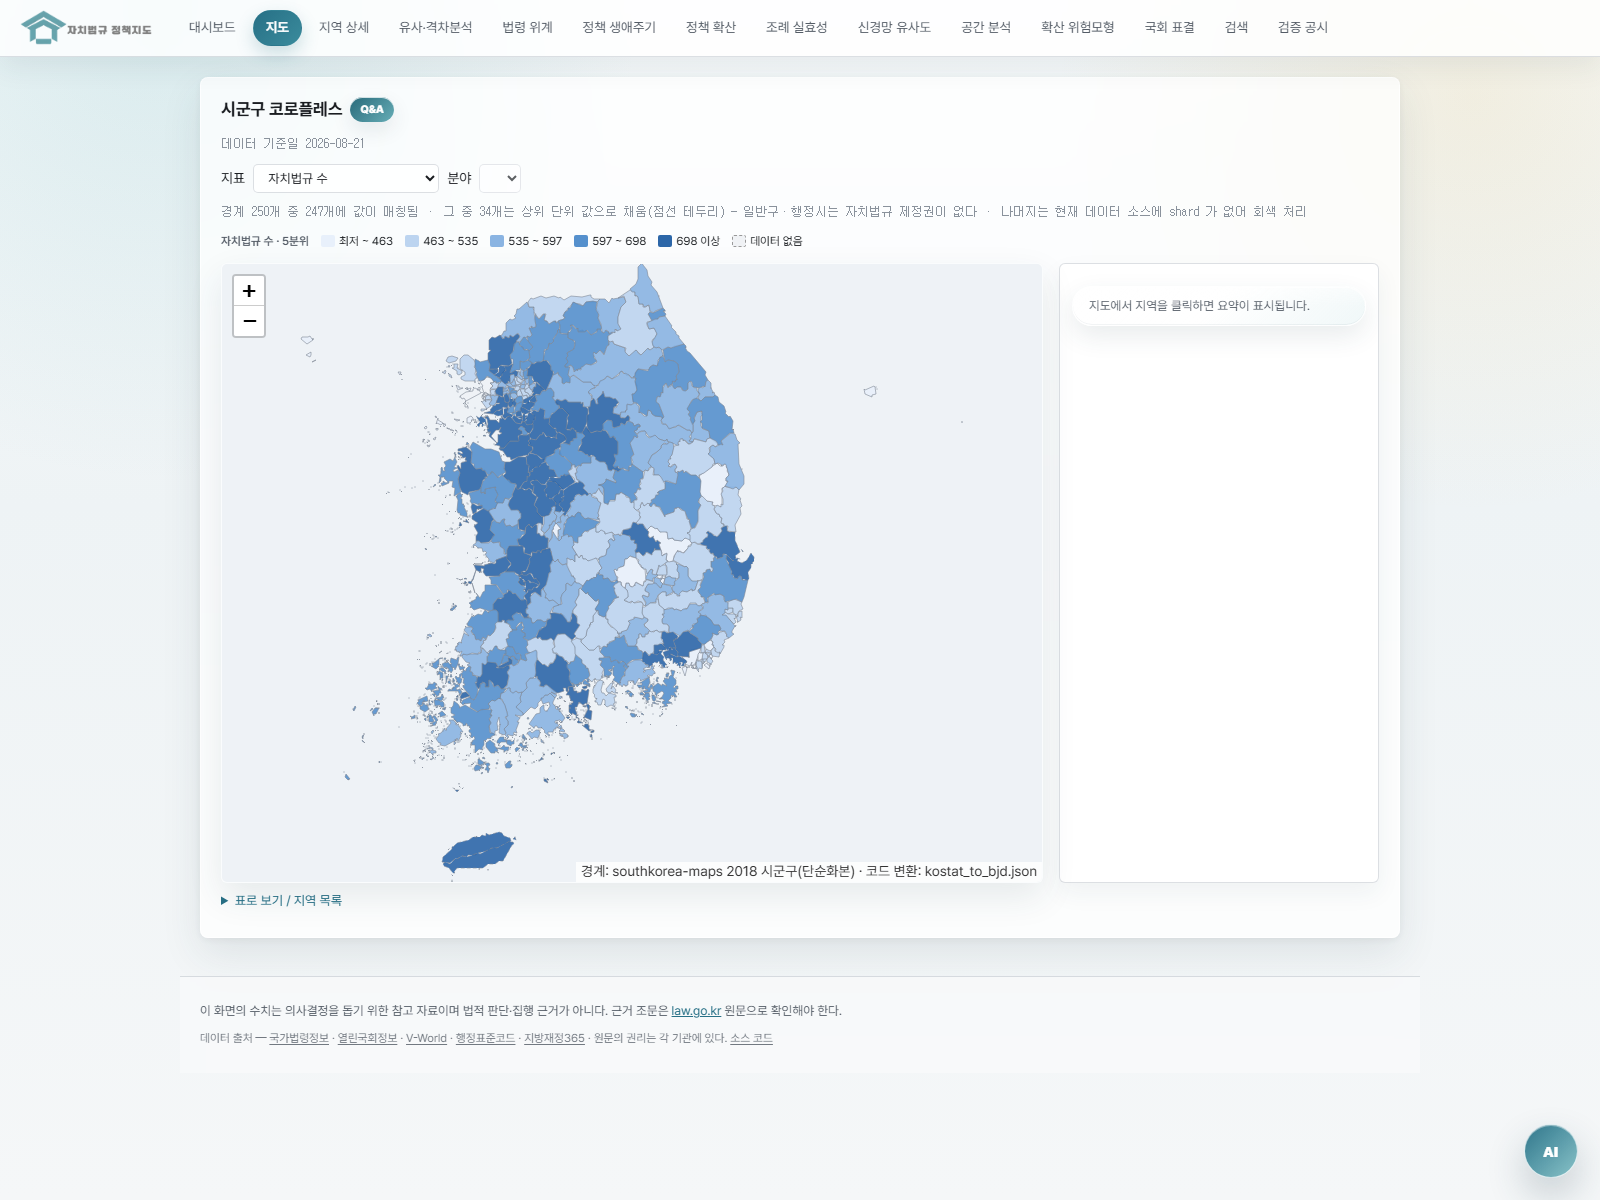
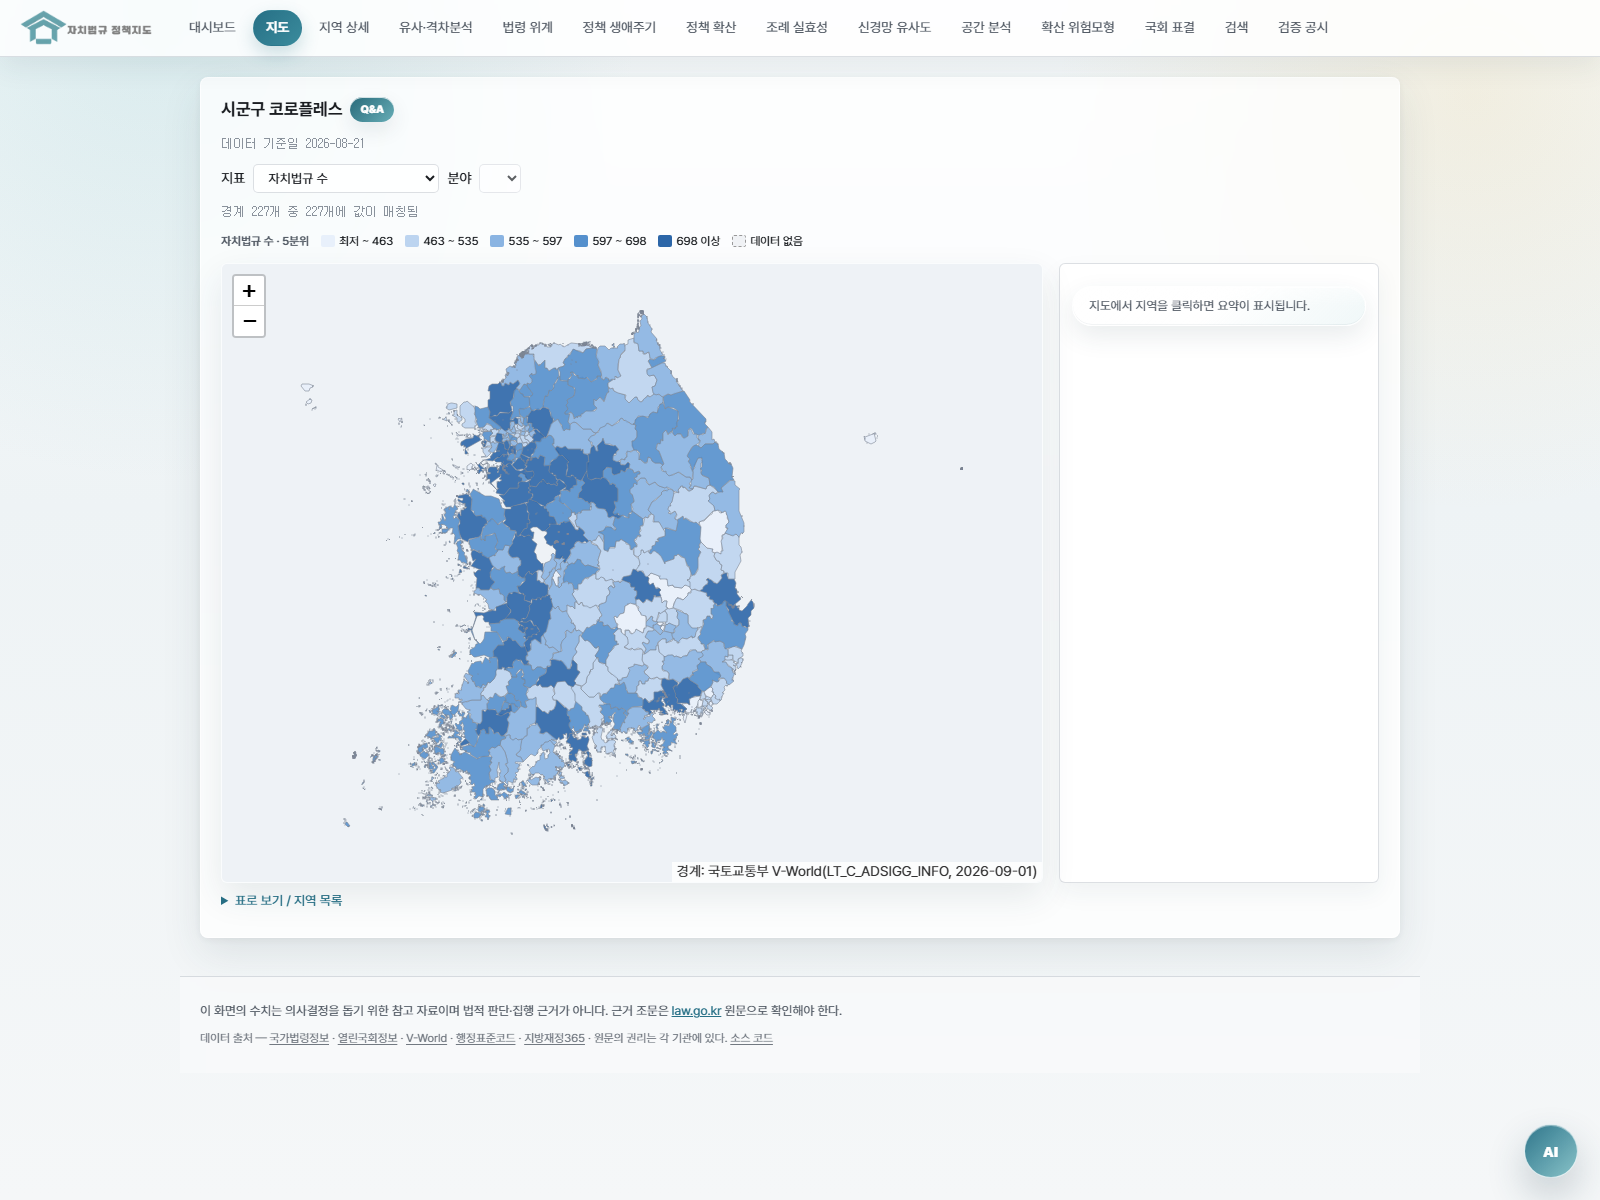
docs: 화면 스크린샷 15장 재캡처 — V-World 전환 반영
배포본이 2026-08-27 빌드에 머물러 있어(Vercel 자동 재배포 미동작) 로컬
정적 서버에서 현재 데이터로 다시 찍었다. 07_spatial 은 Moran's I 0.4333 ·
223/227 · BH-FDR 9곳이라는 구값이 화면에 그대로 박혀 있었다.

- 재캡처 후: Moran's I 0.3655 · z 8.748 · 227/227(제외 0곳) ·
  BH-FDR 통과 28곳, 지표 23종 중 전역 유의 16 · 국지 군집 7
- 02_map 은 V-World 227곳 경계로 갱신
- docs/screenshots/README.md 기준일을 데이터 2026-08-21(법령·자치법규) /
  2026-09-01(행정경계) · 캡처 2026-09-01 로 명시

부수 수정
- make_screenshots.ps1 의 구 개발 경로(F:\policy_maps) 하드코딩을
  $PSScriptRoot 기반 상대경로로 교체
- make_doc_crops.py 신설 — 서식2 삽입용 1.9:1 크롭(1600×842)을
  지금까지 손으로 만들고 있어 재현이 불가능했다

Changed region(s): [[0.25, 0.2158, 0.4688, 0.74], [0.375, 0.7092, 0.6562, 0.74]]

diff --git a/system/make_doc_crops.py b/system/make_doc_crops.py
@@ -1,0 +1,51 @@
+#!/usr/bin/env python
+"""화면 스크린샷 → 문서 삽입용 크롭본.
+
+서식2 본문은 폭이 170mm 뿐이라 세로로 긴 원본 스크린샷을 그대로 넣으면
+한 장이 반 쪽을 먹는다. 화면 상단(제목·핵심 지표·주요 시각화)만 남기고
+가로:세로 = 1.9:1 로 잘라 둔다.
+
+사용:  python system/make_doc_crops.py
+입력:  docs/screenshots/*.png
+출력:  docs/screenshots/doc/*.png   (1600 × 842)
+"""
+from __future__ import annotations
+
+import sys
+from pathlib import Path
+
+from PIL import Image
+
+ROOT = Path(__file__).resolve().parent.parent
+SRC = ROOT / "docs" / "screenshots"
+DST = SRC / "doc"
+RATIO = 1.9          # 폭:높이
+WIDTH = 1600
+
+
+def main() -> int:
+    if not SRC.exists():
+        print(f"원본이 없다: {SRC}")
+        return 1
+    DST.mkdir(parents=True, exist_ok=True)
+    n = 0
+    for p in sorted(SRC.glob("*.png")):
+        im = Image.open(p)
+        w, h = im.size
+        target_h = int(round(w / RATIO))
+        if target_h > h:                      # 원본이 이미 납작하면 그대로
+            out = im.copy()
+        else:
+            out = im.crop((0, 0, w, target_h))
+        if out.size[0] != WIDTH:              # 폭 통일
+            out = out.resize((WIDTH, int(round(out.size[1] * WIDTH / out.size[0]))),
+                             Image.LANCZOS)
+        out.save(DST / p.name, optimize=True)
+        n += 1
+        print(f"  ok  {p.name}  {w}×{h} → {out.size[0]}×{out.size[1]}")
+    print(f"\n  크롭 {n}장 → {DST}")
+    return 0
+
+
+if __name__ == "__main__":
+    raise SystemExit(main())

diff --git a/docs/screenshots/README.md b/docs/screenshots/README.md
@@ -1,7 +1,7 @@
 # 화면 스크린샷
 
 `system/make_screenshots.ps1` 로 생성한다(헤드리스 Chrome, 1600px 폭).
-데이터 기준일 2026-08-21 · 캡처 2026-08-27.
+데이터 기준일 2026-08-21(법령·자치법규) / 2026-09-01(행정경계 V-World) · 캡처 2026-09-01.
 
 | 파일 | 화면 | 서식2 삽입 위치 |
 |---|---|---|
